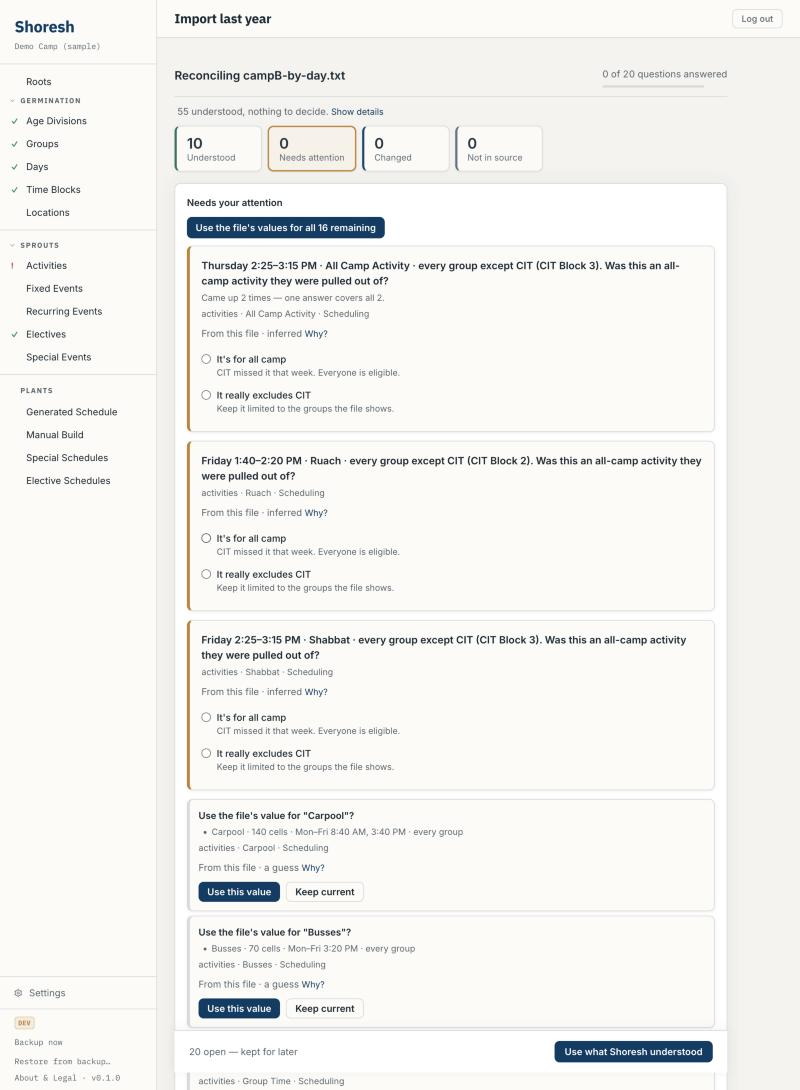
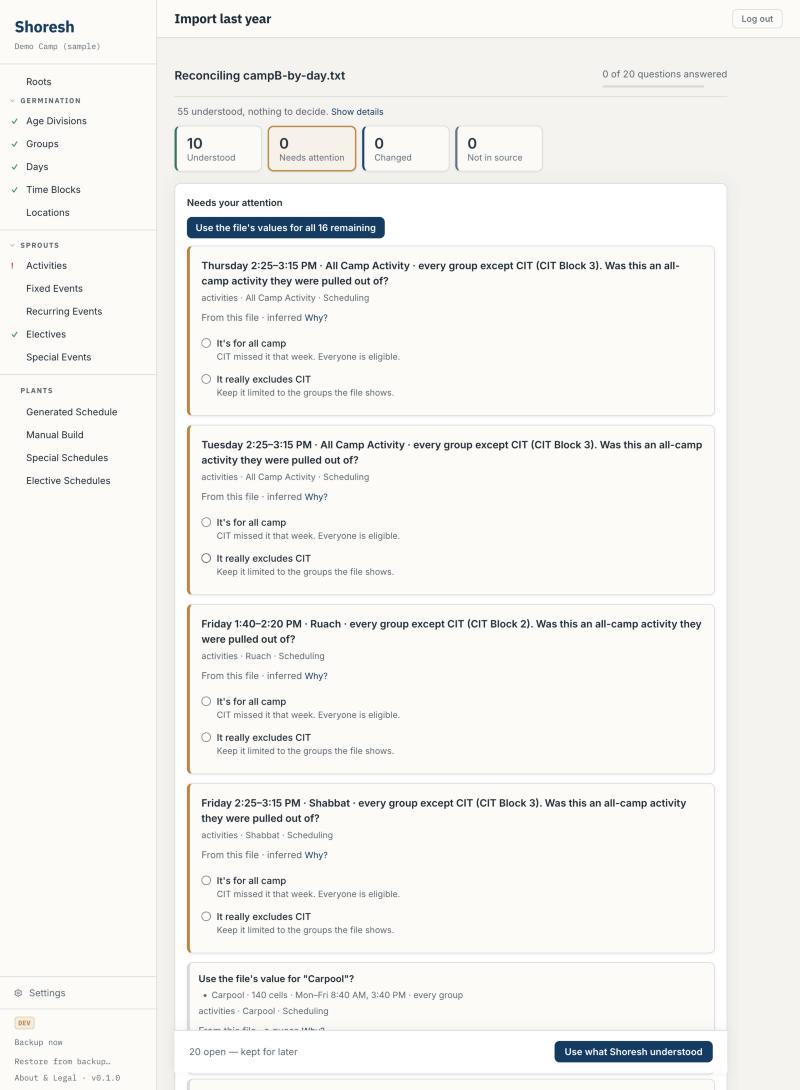
Grouping: slot-pinned decisions (all-camp override, from/to) stay one card per slot

diff --git a/src/ingest/appearsAt.campB.test.js b/src/ingest/appearsAt.campB.test.js
@@ -65,4 +65,12 @@ describe('aggregated card copy', () => {
     const byId = new Map(r.decisions.map((d) => [d.id, d.entityName]))
     for (const c of cards) expect(new Set(c.ids.map((id) => byId.get(id))).size).toBe(1)
   })
+
+  it('campB: Tue and Thu All Camp Activity overrides stay separate cards, each with its own day', () => {
+    const f = { activityName: 'All Camp Activity', block: '14:25-15:15', missingGroups: ['CIT'], insteadByGroup: {}, attendingCount: 1, totalGroups: 2, occurrences: 1 }
+    const r = buildReconciliationReport({ planItems: [], readiness: [], placements, allGroupNames: groups, allCampOverrides: [{ ...f, day: 'Tuesday' }, { ...f, day: 'Thursday' }] })
+    const cards = groupIdenticalDecisions(r.decisions.filter((d) => d.kind === 'all_camp_override'))
+    expect(cards).toHaveLength(2)
+    expect(cards.map((c) => c.decision.reason.split(' ')[0])).toEqual(['Tuesday', 'Thursday'])
+  })
 })

diff --git a/src/components/reconciliation/groupIdenticalDecisions.js b/src/components/reconciliation/groupIdenticalDecisions.js
@@ -26,8 +26,13 @@
 // stop grouping, which is why the signature is built from the rendered text
 // rather than from the decision kind alone.
 
+// A decision pinned to a slot (day + block) is a different question per slot even
+// for the same item, so its reason sentence (which names the slot) or its
+// from/to slots stay in the key.
 function signatureOf(decision) {
-  return JSON.stringify([decision?.kind ?? null, decision?.entity ?? null, decision?.entityName ?? decision?.reason ?? null])
+  const slotted = decision?.kind === 'all_camp_override'
+  const who = slotted ? decision.reason : decision?.entityName ?? decision?.reason ?? null
+  return JSON.stringify([decision?.kind ?? null, decision?.entity ?? null, who, decision?.from ?? null, decision?.to ?? null])
 }
 
 /**
